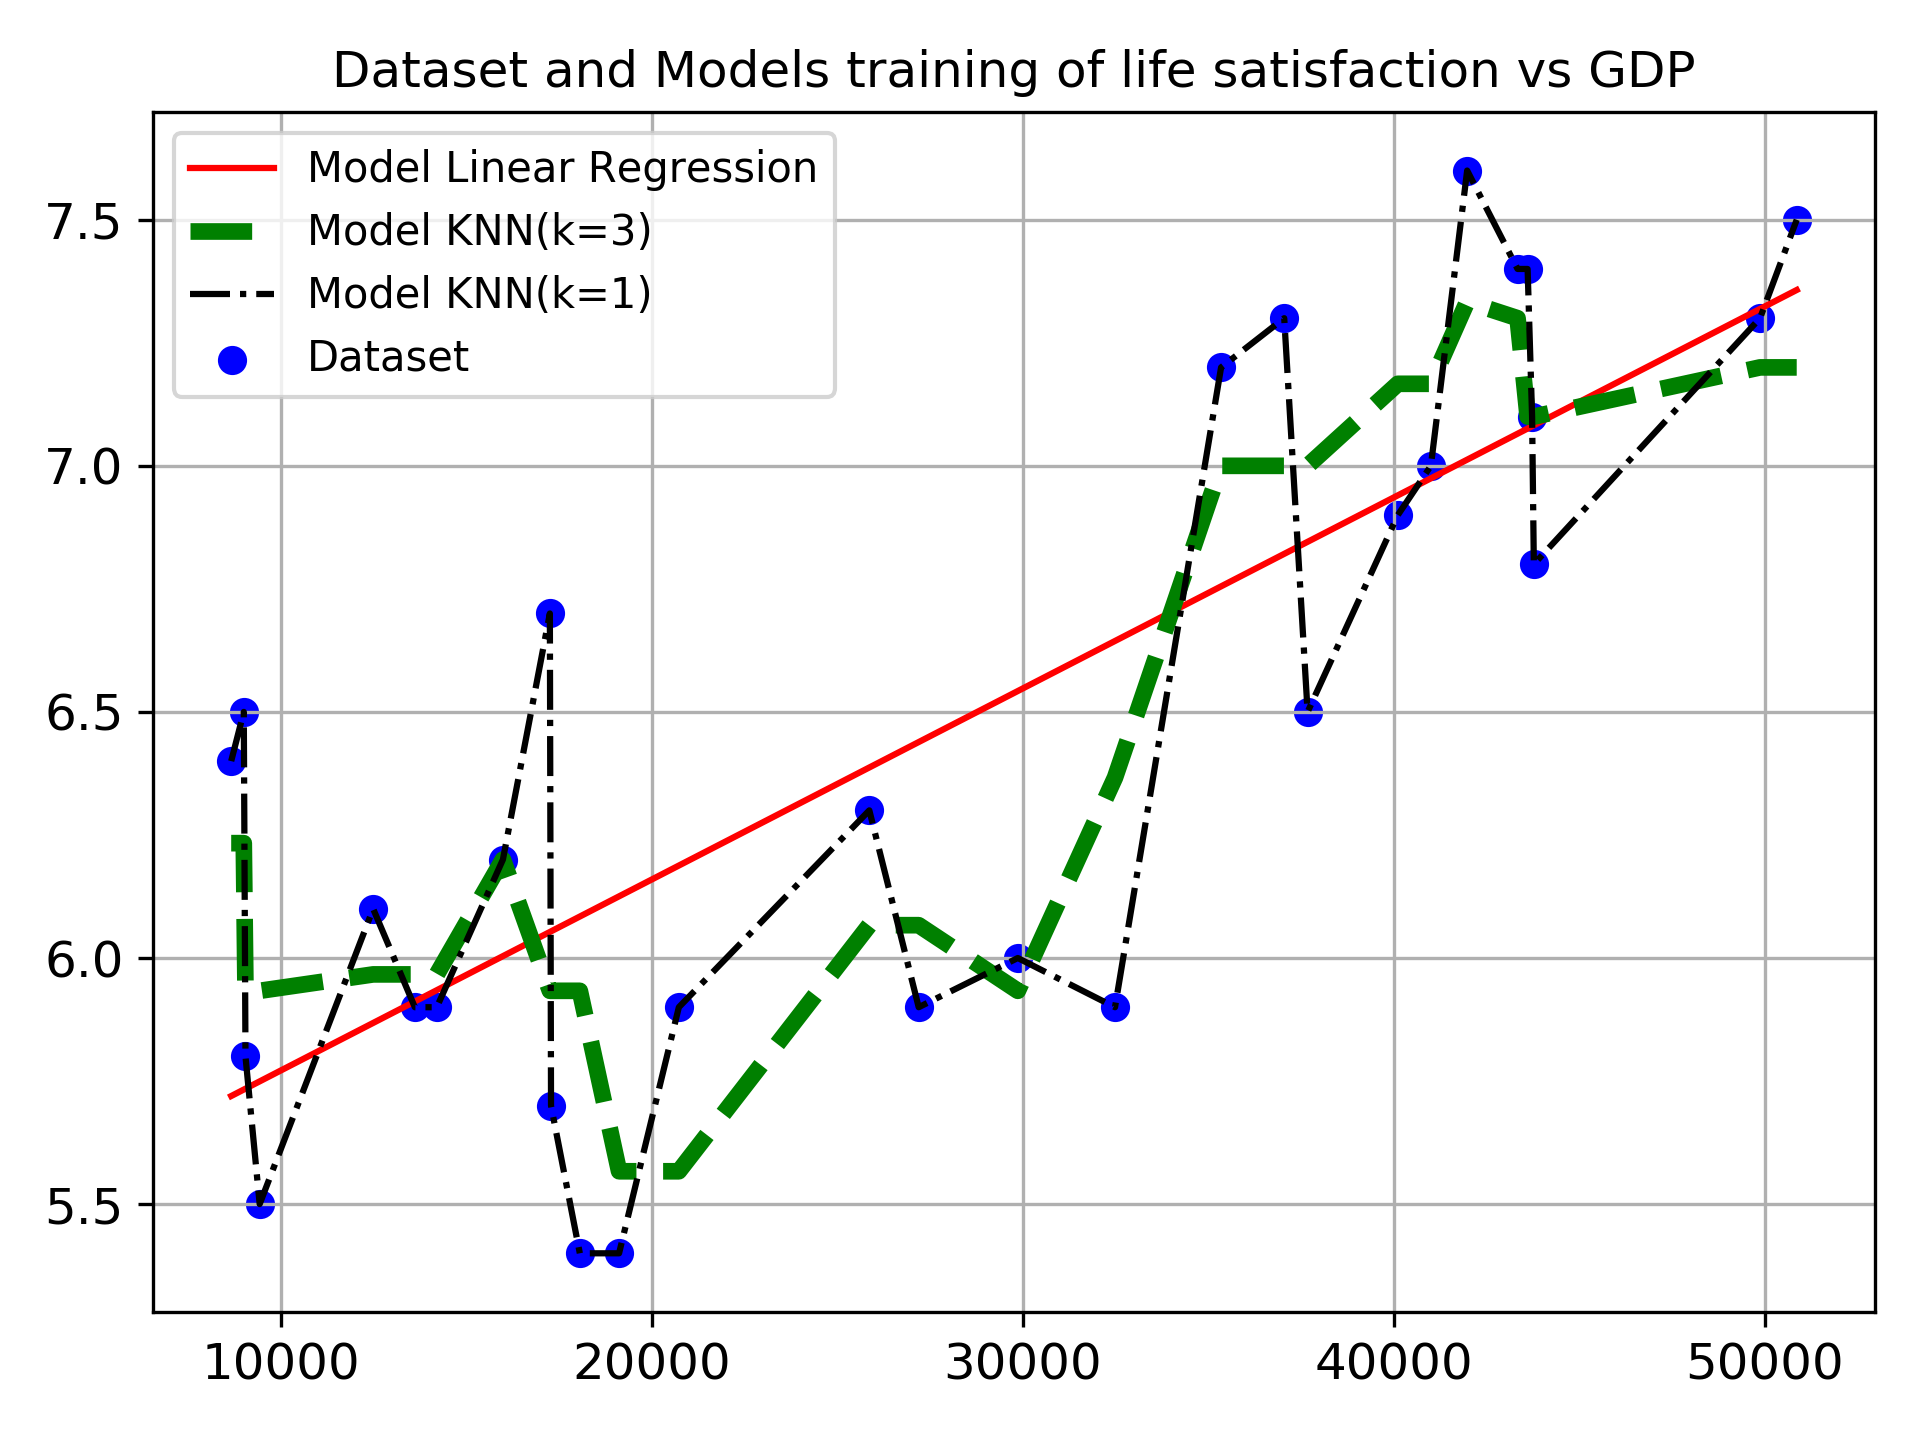
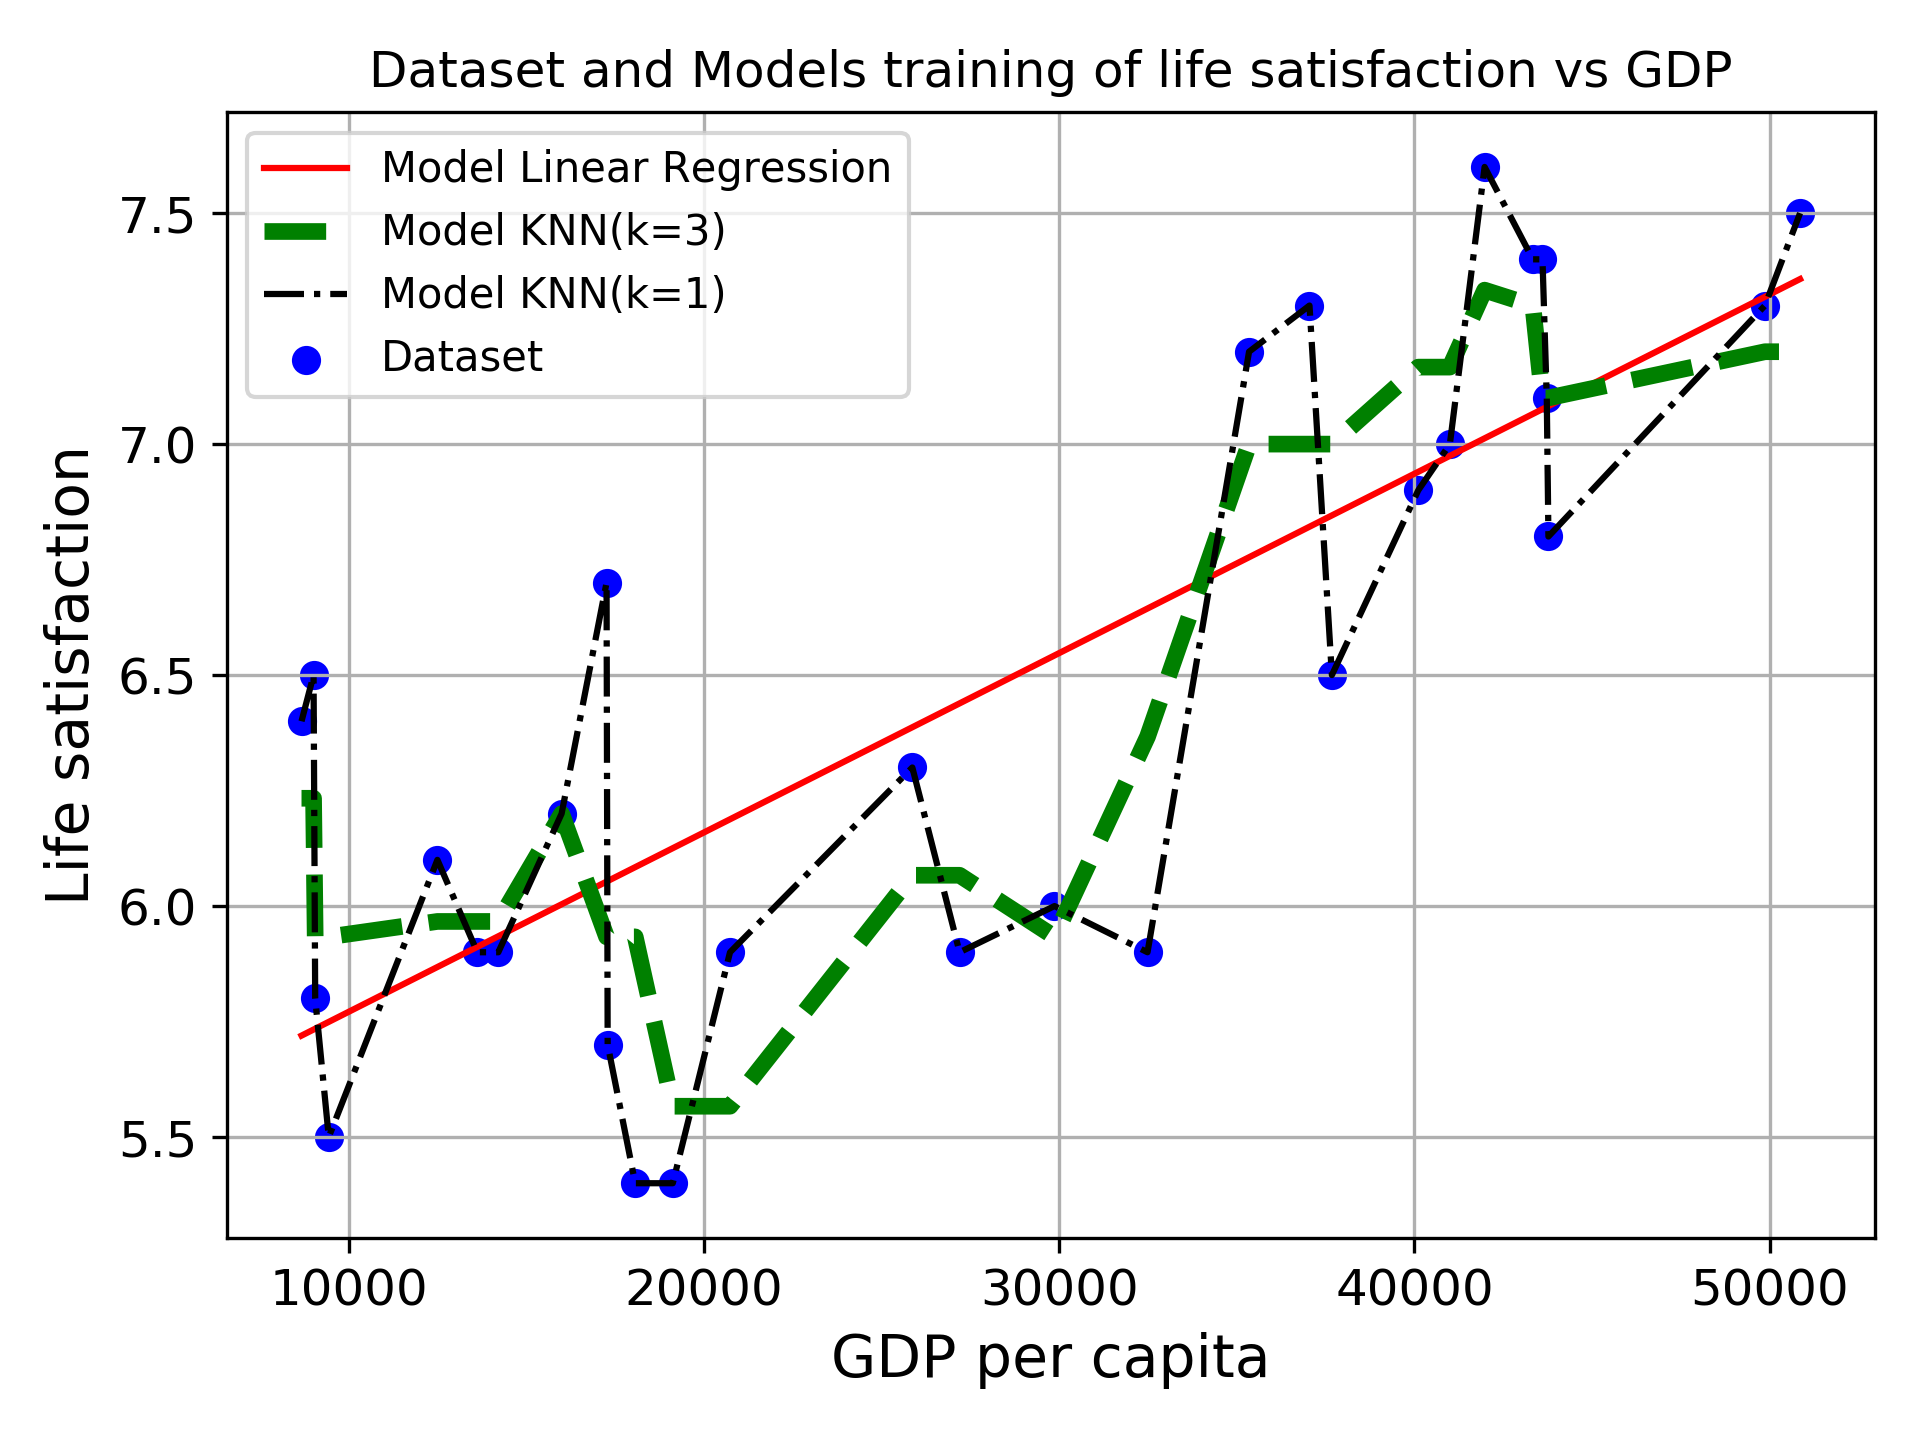
Incluido label nas coordenadas x e y

diff --git a/Book_Hands_On_ML/Chapter1-Ex1-Life_Satisfaction.py b/Book_Hands_On_ML/Chapter1-Ex1-Life_Satisfaction.py
@@ -121,6 +121,8 @@ plt.plot(X, modelKNN1.predict(X), linestyle='-.', label='Model KNN(k=1)', color=
 plt.legend()#ativa a legenda
 plt.grid(True)
 plt.title('Dataset and Models training of life satisfaction vs GDP')
+plt.xlabel("GDP per capita")
+plt.ylabel("Life satisfaction")
 save_fig("life satisfaction vs GDP")
 plt.show()
 
